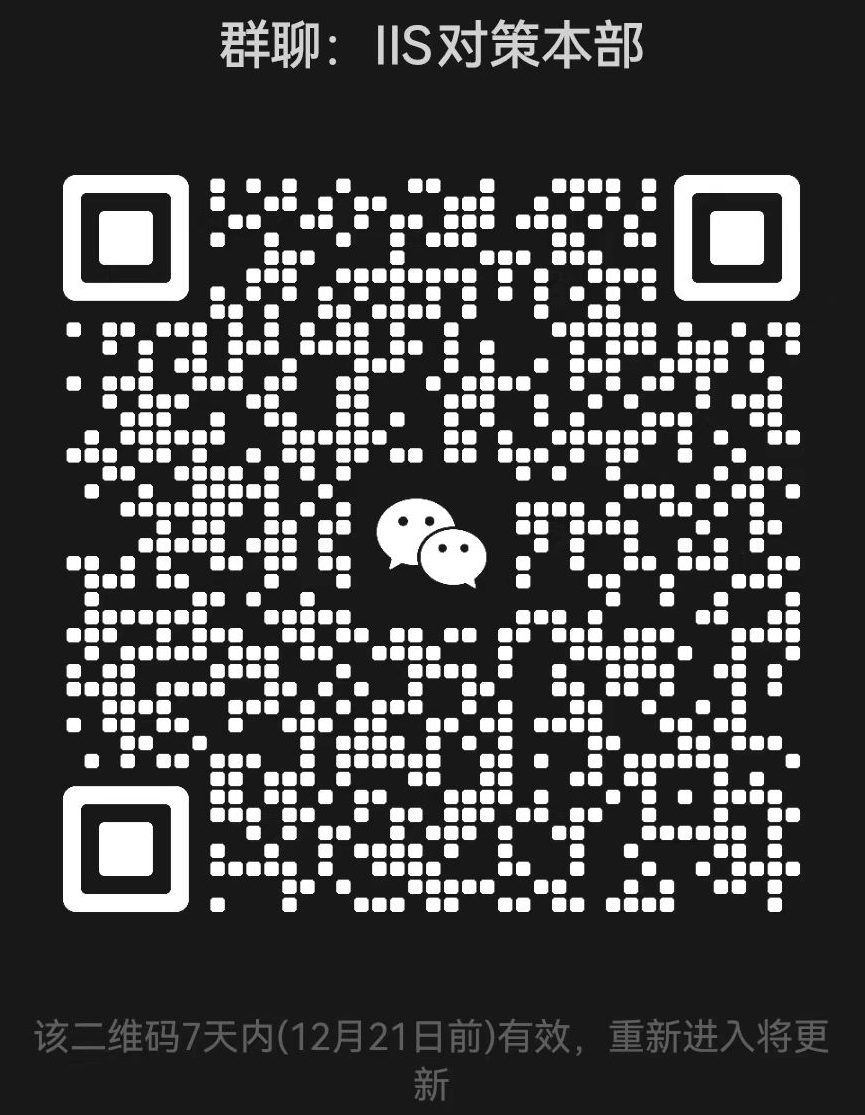
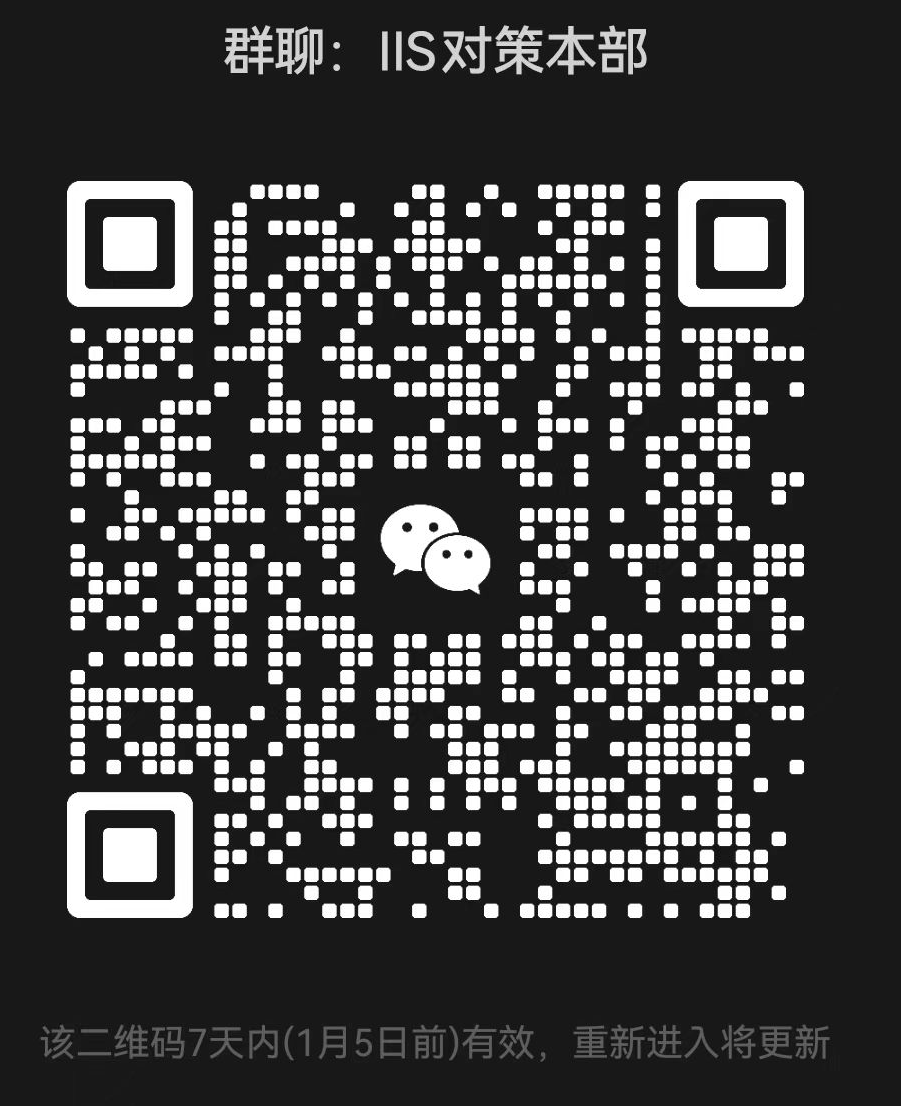
Update readme and QR

diff --git a/README.md b/README.md
@@ -4,9 +4,17 @@
 
 项目地址：[https://github.com/SleepySoft/IntelligenceIntegrationSystem](https://github.com/SleepySoft/IntelligenceIntegrationSystem/tree/dev)
 
-## 临时下线通知
+## 更新与通知
 
-20251210: 由于域名账户连同账号下域名被服务商ban，所以当前无法通过域名访问该Demo，正在和客服沟通恢复中。
+20251229: 
+
+> 家里公网的DDNS出现无法访问的问题，正积极恢复中。未来可能会全部迁移到VPS，避免频繁出现访问问题。
+
+20251229: 
+
+> 模型训练单独提取为一个项目：[IntelligenceIntegrationSystemModelTraining](https://github.com/SleepySoft/IntelligenceIntegrationSystemModelTraining)
+> 
+> 今后本项目中的 [ModelTraining](ModelTraining) 内容不再更新。
 
 ## 起因
 
